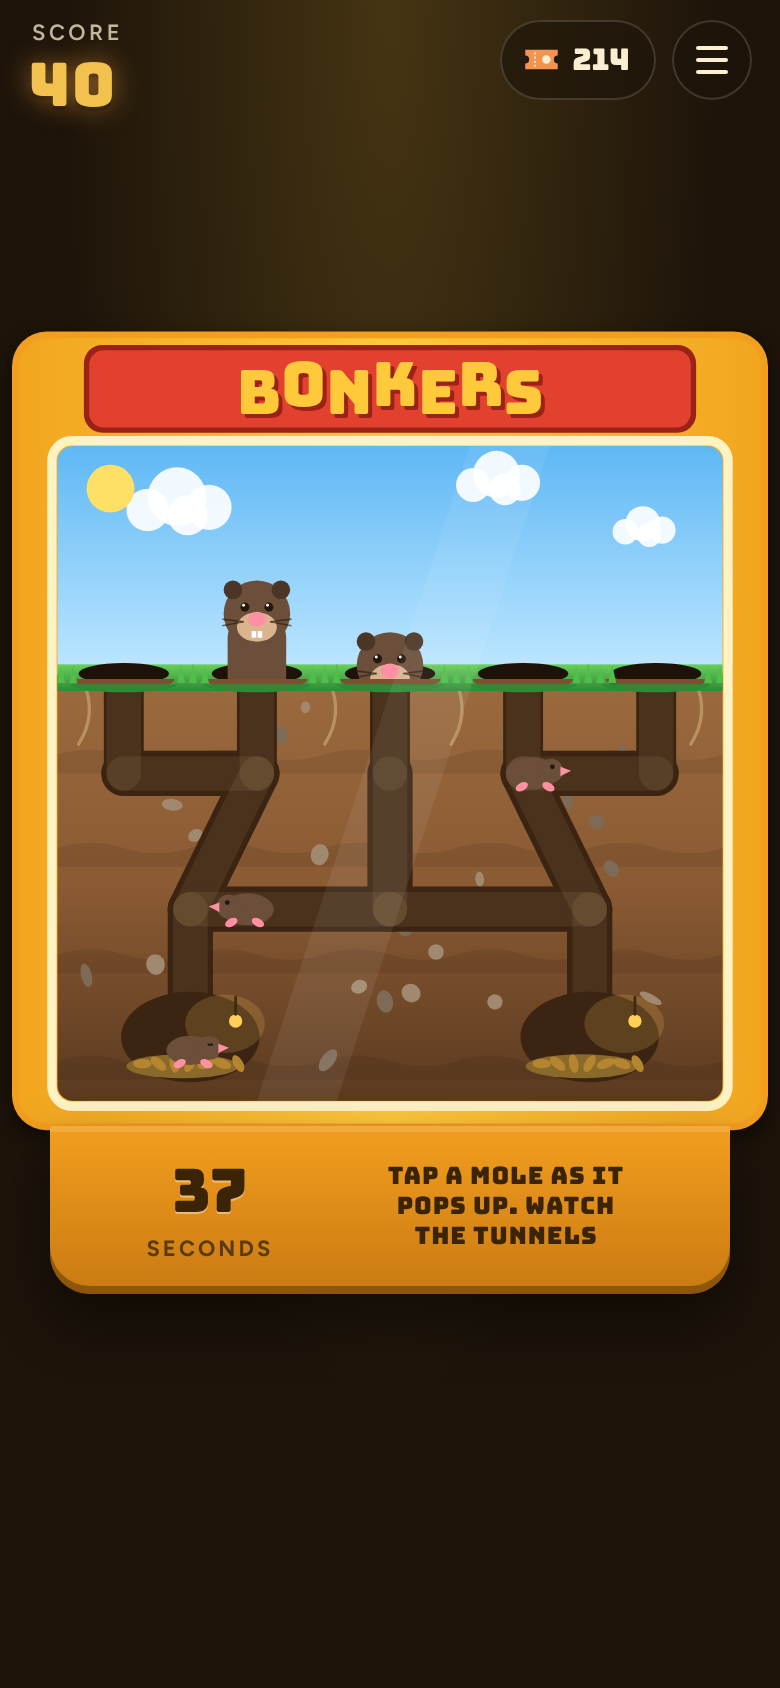
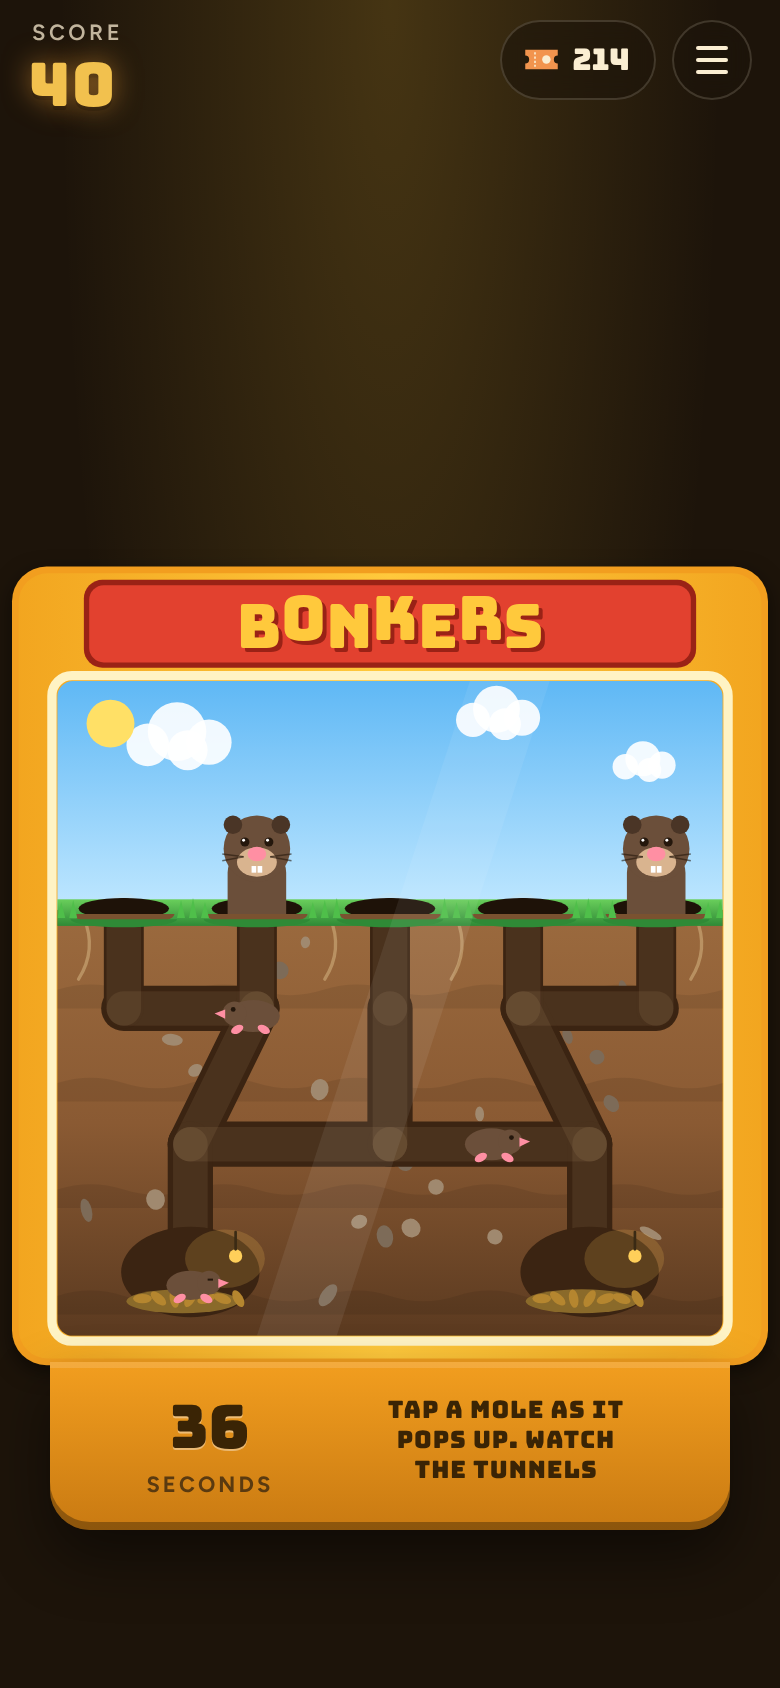
Bonkers and Popgun sit lower on a tall phone, nearer the thumb
Mark said yes to 'Bonkers and Popgun sit high on a tall phone'. On a
390 x 844 phone held upright, Bonkers left about 110 px empty above its
sign and 200 px below its deck, and Popgun about 80 and 140, so both
were played in the upper half of the screen, where a thumb reaches
least. Each put about a third of its height to spare above the cabinet
and the rest below. Now, on a phone held upright (the cabinet as wide
as the screen, the deck under it), three quarters goes above: at
390 x 844 Bonkers' lawn is 117 px lower and Popgun's targets 84 px
lower (86 and 52 under an iPhone's notch, where there is less to
spare), and the deck stays clear of the home indicator. Nothing changes
size, so neither machine plays any differently. The shortest phones,
with nothing to spare (375 x 548), look as they did, and so do a tablet
held upright, a phone on its side and a computer. A new check in the
floor's test measures the room above each cabinet and below each deck
at 390 x 844 with and without a notch and at 430 x 932, and on a tablet;
it fails without this change. The README's pictures of both are
redrawn, and sw.js's FILES follows the change.

Claude-Session: https://claude.ai/code/session_01RkvUFhzoaPZyofz3pSrJ5i

diff --git a/popgun/js/draw.js b/popgun/js/draw.js
@@ -28,10 +28,14 @@ export function createDraw(canvas) {
     dpr = ratio;
     canvas.width = back.width = front.width = Math.round(w * dpr);
     canvas.height = back.height = front.height = Math.round(h * dpr);
-    const cw = CAB.x1 - CAB.x0, ch = CAB.y1 - CAB.y0, room = h - top - bottom - 8;
-    k = Math.min((w - right - 12) / cw, room / ch, 1.1);
+    const cw = CAB.x1 - CAB.x0, ch = CAB.y1 - CAB.y0, room = h - top - bottom - 8, fit = (w - right - 12) / cw;
+    k = Math.min(fit, room / ch, 1.1);
     ox = (w - right - cw * k) / 2 - CAB.x0 * k;
-    oy = top + 4 + Math.max(0, room - ch * k) * 0.35 - CAB.y0 * k;
+    // Height to spare goes about a third above the cabinet and the rest below. On a tall phone held upright (the
+    // cabinet as wide as the screen, the deck under it) three quarters of it goes above instead, so the targets sit
+    // lower, nearer the thumb, rather than leaving the bottom of the screen empty.
+    const above = k === fit && !right ? 0.75 : 0.35;
+    oy = top + 4 + Math.max(0, room - ch * k) * above - CAB.y0 * k;
     repaint();
   }
   // Where a point on the page is on the back of the booth (for aiming), and the other way round.

diff --git a/bonkers/js/draw.js b/bonkers/js/draw.js
@@ -24,10 +24,14 @@ export function createDraw(canvas) {
     dpr = ratio;
     canvas.width = back.width = front.width = Math.round(w * dpr);
     canvas.height = back.height = front.height = Math.round(h * dpr);
-    const cw = CAB.x1 - CAB.x0, ch = CAB.y1 - CAB.y0, room = h - top - bottom - 8;
-    k = Math.min((w - right - 12) / cw, room / ch, 1.15);
+    const cw = CAB.x1 - CAB.x0, ch = CAB.y1 - CAB.y0, room = h - top - bottom - 8, fit = (w - right - 12) / cw;
+    k = Math.min(fit, room / ch, 1.15);
     ox = (w - right - cw * k) / 2 - CAB.x0 * k;
-    oy = top + 4 + Math.max(0, room - ch * k) * 0.35 - CAB.y0 * k;
+    // Height to spare goes about a third above the cabinet and the rest below. On a tall phone held upright (the
+    // cabinet as wide as the screen, the deck under it) three quarters of it goes above instead, so the lawn sits
+    // lower, nearer the thumb, rather than leaving the bottom of the screen empty.
+    const above = k === fit && !right ? 0.75 : 0.35;
+    oy = top + 4 + Math.max(0, room - ch * k) * above - CAB.y0 * k;
     repaint();
   }
   const toBurrow = (px, py) => ({ x: (px - ox) / k, y: (py - oy) / k });

diff --git a/sw.js b/sw.js
@@ -9,7 +9,7 @@
 // match (it says what to), which changes this file, so every copy is made whole again at once. Bump CACHE's number
 // as well when the list itself changes.
 const CACHE = 'free-play-v9';
-const FILES = '409ae18e'; // test/arcade.test.mjs checks this
+const FILES = '60af578f'; // test/arcade.test.mjs checks this
 const SHELL = [
   './', 'index.html', 'icon.svg', 'manifest.webmanifest', 'icon-180.png', 'icon-192.png',
   // the page for an address that is not there
